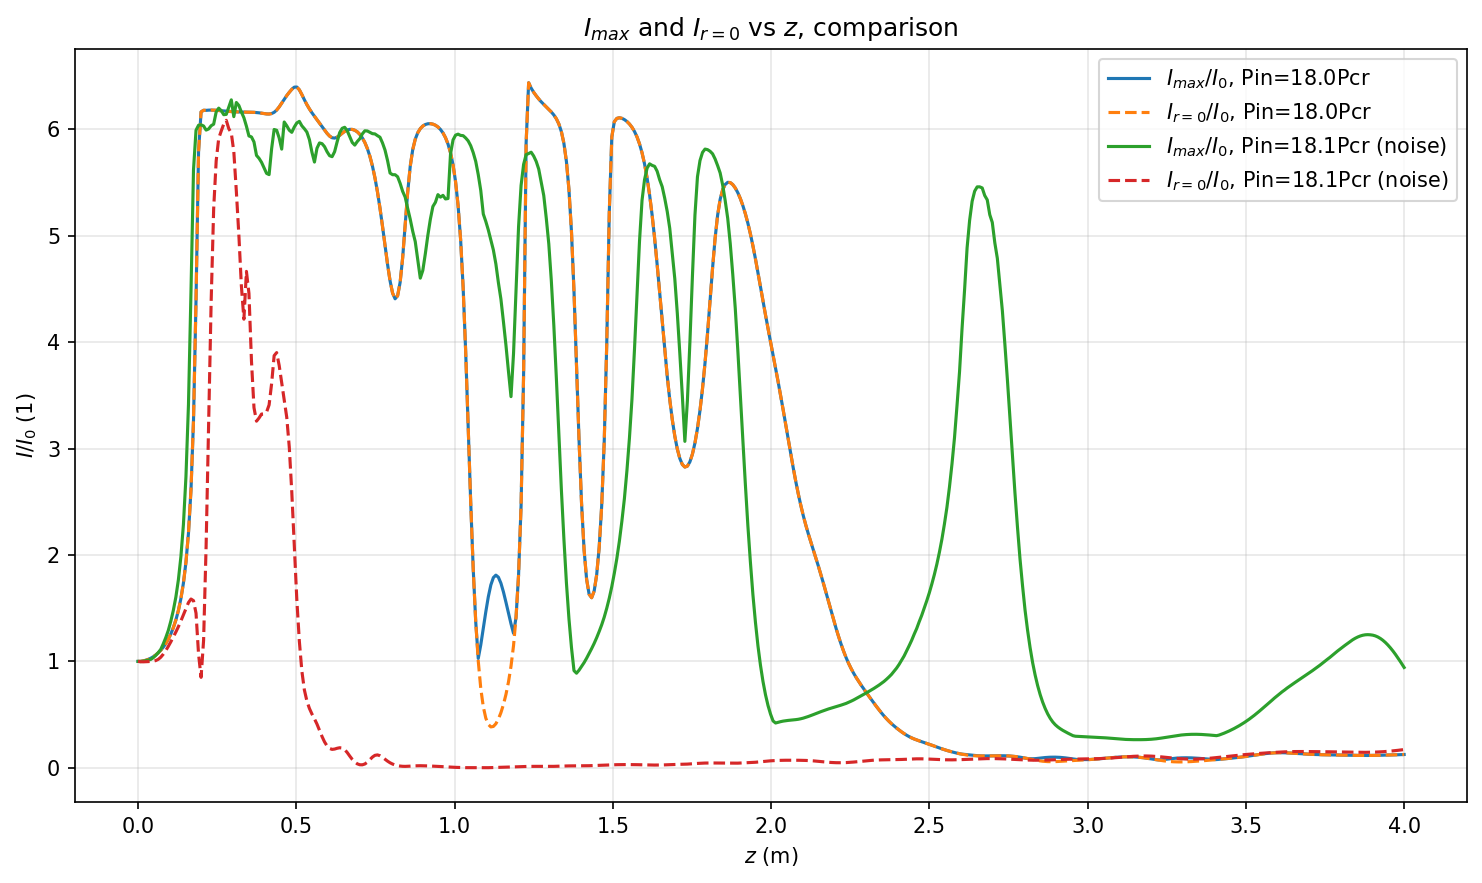
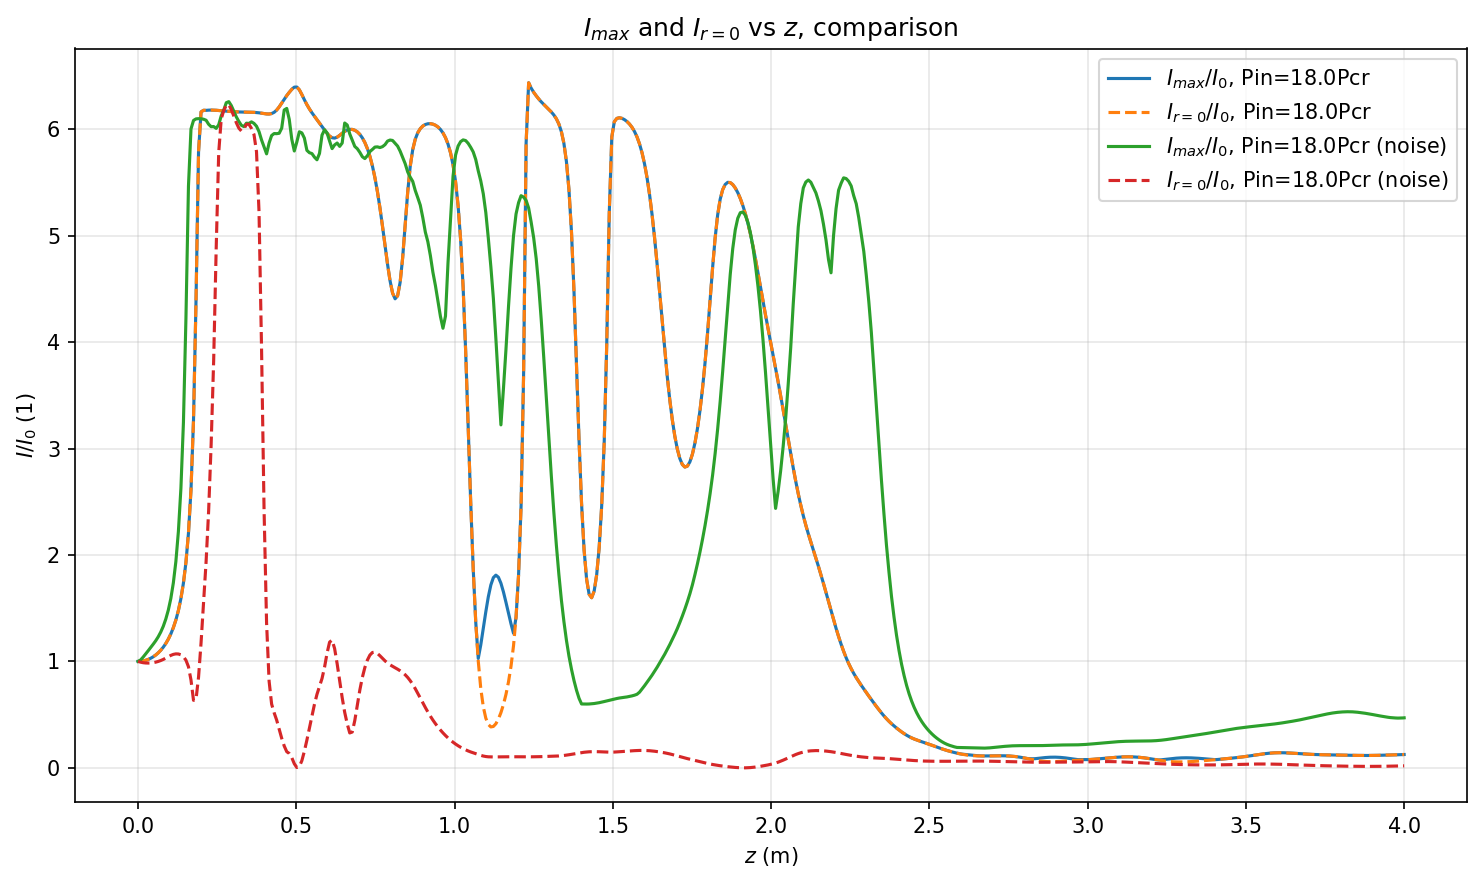
same as prev

diff --git a/Teofil/run_plotting.py b/Teofil/run_plotting.py
@@ -189,7 +189,7 @@ sim_clean = BeamSimulationZXY(
     '/media/teofil/Data/Teofil/Ecole/_S04/ELDYN/Project/Our_project/Code/multiple_laser_filamentation/Results/FFT/zxy/gaussian/a_manual/'
 )
 sim_noisy = BeamSimulationZXY_Noise(
-    '/home/teofil/Desktop/Eldyn_sims/Simulations/FFT/zxy/gaussian/noise/Pin_018p1_Pcr_xy_no_t_memory_optimized_noise.npz',
+    '/home/teofil/Desktop/Eldyn_sims/Simulations/FFT/zxy/gaussian/noise/Pin_018p0_Pcr_xy_no_t_memory_optimized_noise.npz',
     '/home/teofil/Desktop/Eldyn_sims/Simulations/FFT/zxy/gaussian/noise/',
     '/media/teofil/Data/Teofil/Ecole/_S04/ELDYN/Project/Our_project/Code/multiple_laser_filamentation/Results/FFT/zxy/gaussian/a_manual/'
 )
